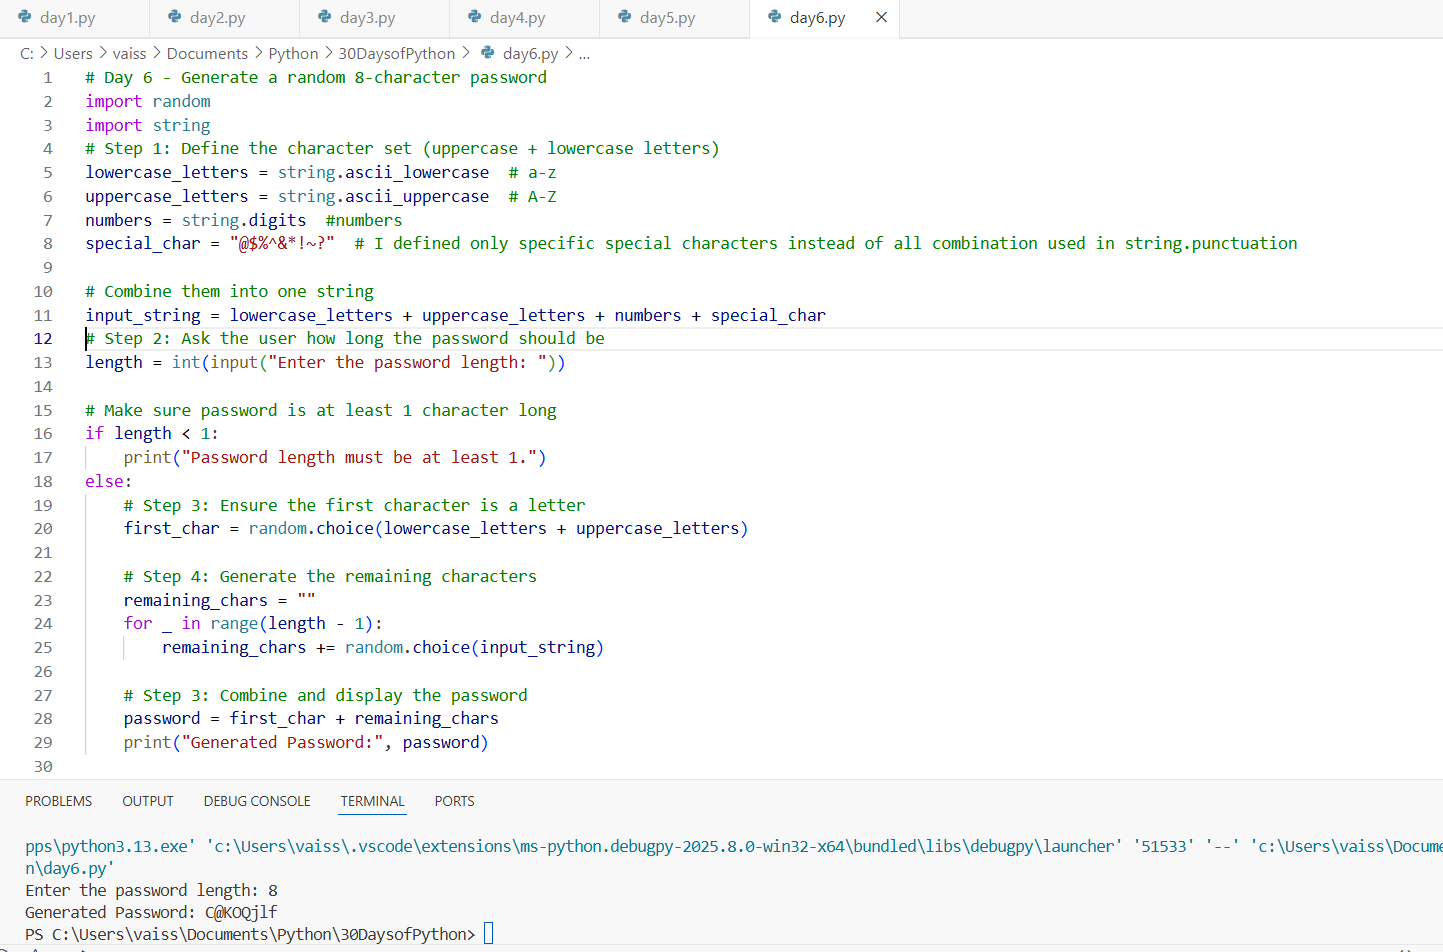
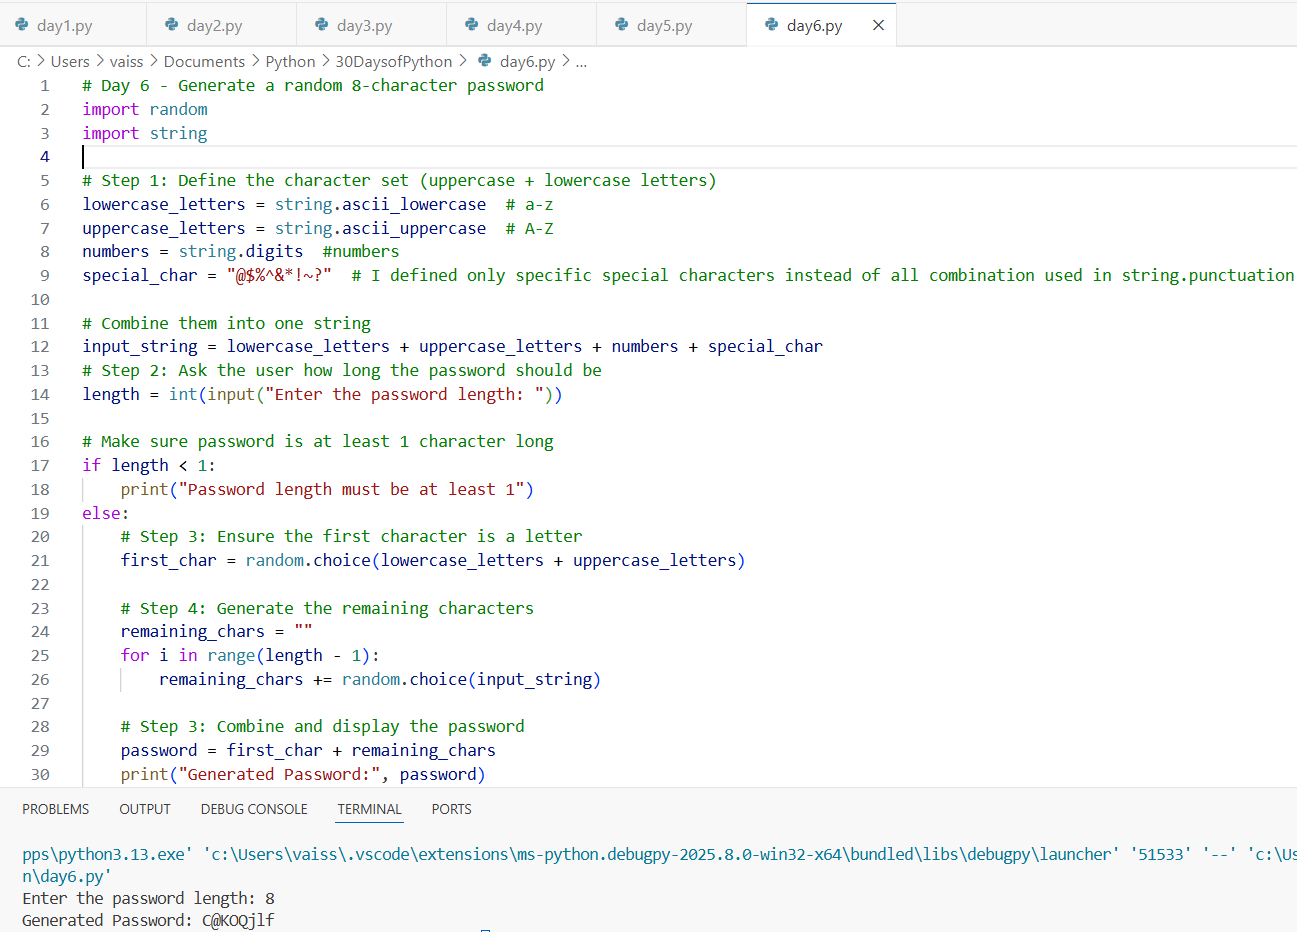
Modified the for loop for understandability of code

Changed region(s): [[0.0, 0.0, 1.0, 1.0], [0.4318, 0.0, 0.6476, 0.0622], [0.0, 0.6223, 0.0617, 0.7157]]

diff --git a/code_snippets/day6.py b/code_snippets/day6.py
@@ -1,6 +1,7 @@
 # Day 6 - Generate a random 8-character password
 import random
 import string
+
 # Step 1: Define the character set (uppercase + lowercase letters)
 lowercase_letters = string.ascii_lowercase  # a-z
 uppercase_letters = string.ascii_uppercase  # A-Z
@@ -14,14 +15,14 @@ length = int(input("Enter the password length: "))
 
 # Make sure password is at least 1 character long
 if length < 1:
-    print("Password length must be at least 1.")
+    print("Password length must be at least 1")
 else:
     # Step 3: Ensure the first character is a letter
     first_char = random.choice(lowercase_letters + uppercase_letters)
 
     # Step 4: Generate the remaining characters
     remaining_chars = ""
-    for _ in range(length - 1):
+    for i in range(length - 1):
         remaining_chars += random.choice(input_string)
 
     # Step 3: Combine and display the password
